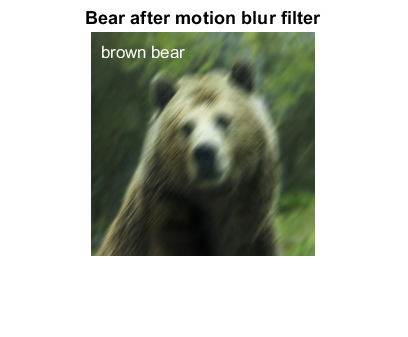
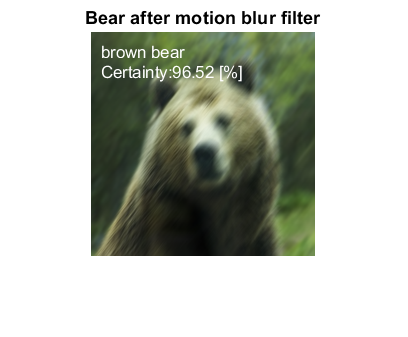
upload progress

Changed region(s): [[0.2353, 0.178, 0.6176, 0.2374]]

diff --git a/HW2/hw_alex/hw2_matlab/main.m b/HW2/hw_alex/hw2_matlab/main.m
@@ -20,7 +20,7 @@ net = vgg16();
 bird_pics = dir('CNN images/birds');
 bird_num = 0;
    
-% display the birds
+%% display the birds
 for i=1:length(bird_pics)
 
    if  (~strcmp(bird_pics(i).name, '.') && ~strcmp(bird_pics(i).name, '..'))
@@ -43,15 +43,13 @@ for i=1:length(bird_pics)
        label = classify(net, bird_resized);
        text(10, 20, char(label),'Color','white')
        
-       fprintf('The bird is 
-       
        
    end    
 end
 
 
 
-% input new image from internet and classify
+%% input new image from internet and classify
 
 bear = imread('bear.jpg');
 fig = figure();
@@ -62,11 +60,12 @@ fig = figure();
 imshow(bear_resized);
 title('Bear image');
 label = classify(net, bear_resized);
+certainty = get_prediction_certainty(net, bear_resized); 
 text(10, 20, char(label),'Color','white')
+text(10, 40, strcat('Certainty: ', num2str(certainty, '% 10.2f'), ' [%]'),'Color','white')
 
 
-
-% Using a geometric transformation - shear
+%% Using a geometric transformation - shear
 a = 0.45;
 T = maketform('affine', [1 0 0; a 1 0; 0 0 1] );
 bear_sheared = imtransform(bear,T,'cubic','FillValues',[0 0 0]');
@@ -75,15 +74,17 @@ imshow(bear_sheared);
 title('Bear after geometric transformation');
 % resize and get prediction
 
-bear_resized = imresize(bear_sheared,[224 224]);
+bear_sheared_resized = imresize(bear_sheared,[224 224]);
 fig = figure();
-imshow(bear_resized);
+imshow(bear_sheared_resized);
 title('Bear after geometric transformation');
-label = classify(net, bear_resized);
+label = classify(net, bear_sheared_resized);
+certainty = get_prediction_certainty(net, bear_sheared_resized); 
+text(10, 40, strcat('Certainty: ', num2str(certainty, '% 10.2f'), ' [%]'),'Color','white')
 text(10, 20, char(label),'Color','white')
 
 
-% using a color transformation - affect the hue layer
+%% using a color transformation - affect the hue layer
 bear_hsv = rgb2hsv(bear);
 bear_hsv(:,:,1) = bear_hsv(:,:,1)*2.5; % affect Hue
 bear_colored = im2uint8(hsv2rgb(bear_hsv));
@@ -95,10 +96,12 @@ fig = figure();
 imshow(bear_hue_resized);
 title('Bear after color transformation');
 label = classify(net, bear_hue_resized);
+certainty = get_prediction_certainty(net, bear_hue_resized); 
+text(10, 40, strcat('Certainty: ', num2str(certainty, '% 10.2f'), ' [%]'),'Color','white')
 text(10, 20, char(label),'Color','white')
 
 
-% using a filter on an image. Lets create a filter of a motion blur
+%% using a filter on an image. Lets create a filter of a motion blur
 H = fspecial('motion',20,45);
 bear_blurred = imfilter(bear,H,'replicate');
 imshow(bear_blurred);
@@ -108,14 +111,46 @@ fig = figure();
 imshow(bear_blurred_resized);
 title('Bear after motion blur filter');
 label = classify(net, bear_blurred_resized);
+certainty = get_prediction_certainty(net, bear_blurred_resized); 
+text(10, 40, strcat('Certainty: ', num2str(certainty, '% 10.2f'), ' [%]'),'Color','white')
 text(10, 20, char(label),'Color','white')
 
 
 
+%% Show the 2 filters response to the 3 input images of the bear
+
+% load the original bear image
+bear = imread('bear.jpg');
+bear_resized = imresize(bear,[224 224]);
+
+% choose some random filters
+filter_1 = net.Layers(2).Weights(:,:,:,5);
+filter_2 = net.Layers(2).Weights(:,:,:,32);
+
+% vizualizing them
+vizualize_filter(filter_1)
+vizualize_filter(filter_2)
+
+% showing the response
+show_response_to_filter(bear_resized, filter_1)
+show_response_to_filter(bear_resized, filter_2)
 
 
-% filter = net.Layers(2).Weights(:,:,:,:);
+%% answering the question - showing the response for 3 transformations
 
+show_response_to_filter(bear_sheared_resized, filter_1)
+show_response_to_filter(bear_sheared_resized, filter_2)
+
+show_response_to_filter(bear_hue_resized, filter_1)
+show_response_to_filter(bear_hue_resized, filter_2)
+
+show_response_to_filter(bear_blurred_resized, filter_1)
+show_response_to_filter(bear_blurred_resized, filter_2)
+
+
+
+%Q7
+%features = activations(net,bear_resized,'fc7');
 
 
 

diff --git a/HW2/hw_alex/hw2_matlab/vizualize_filter.m b/HW2/hw_alex/hw2_matlab/vizualize_filter.m
@@ -1,0 +1,21 @@
+function vizualize_filter ( filter )
+    % fitler is 3X3X3
+    
+    % 1. normalize the weights to fit in [0 1]
+    f_min = min(filter(:));
+    f_max = max(filter(:));
+    filter_normed = (filter - f_min) / (f_max-f_min );
+    
+    filter_uint = im2uint8(filter_normed);
+    
+    fig = figure('Position',[200 200 600 300]);
+    for filt_depth_lvl=1:size(filter_uint,2)
+        subplot(1,3,filt_depth_lvl);
+        imshow(filter_uint(:,:,filt_depth_lvl));
+    end
+    % title('Vizualization of a filter');
+    
+    
+    
+end
+

diff --git a/HW2/hw_alex/hw2_matlab/show_response_to_filter.m b/HW2/hw_alex/hw2_matlab/show_response_to_filter.m
@@ -1,0 +1,17 @@
+function show_response_to_filter(image,filter)
+
+% input is 224* 224 * 3
+% filter is 3 by 3 by 3
+% output is 224* 224 * 1
+
+image_filtered = imfilter(image, double(filter));
+
+% we take only the middle layer
+image_filtered = image_filtered(:,:,2);
+
+% displaying the result
+fig = figure();
+imshow(image_filtered);
+
+end
+

diff --git a/HW2/hw_alex/hw2_matlab/get_prediction_certainty.m b/HW2/hw_alex/hw2_matlab/get_prediction_certainty.m
@@ -1,0 +1,11 @@
+function [accuracy] = get_prediction_certainty (net, input)
+
+    % return the certainty of the prediction
+    
+    features = activations(net,input,'prob');
+    [max_val, idx] = max(features);    
+    accuracy = max_val * 100;
+    
+    
+end
+
